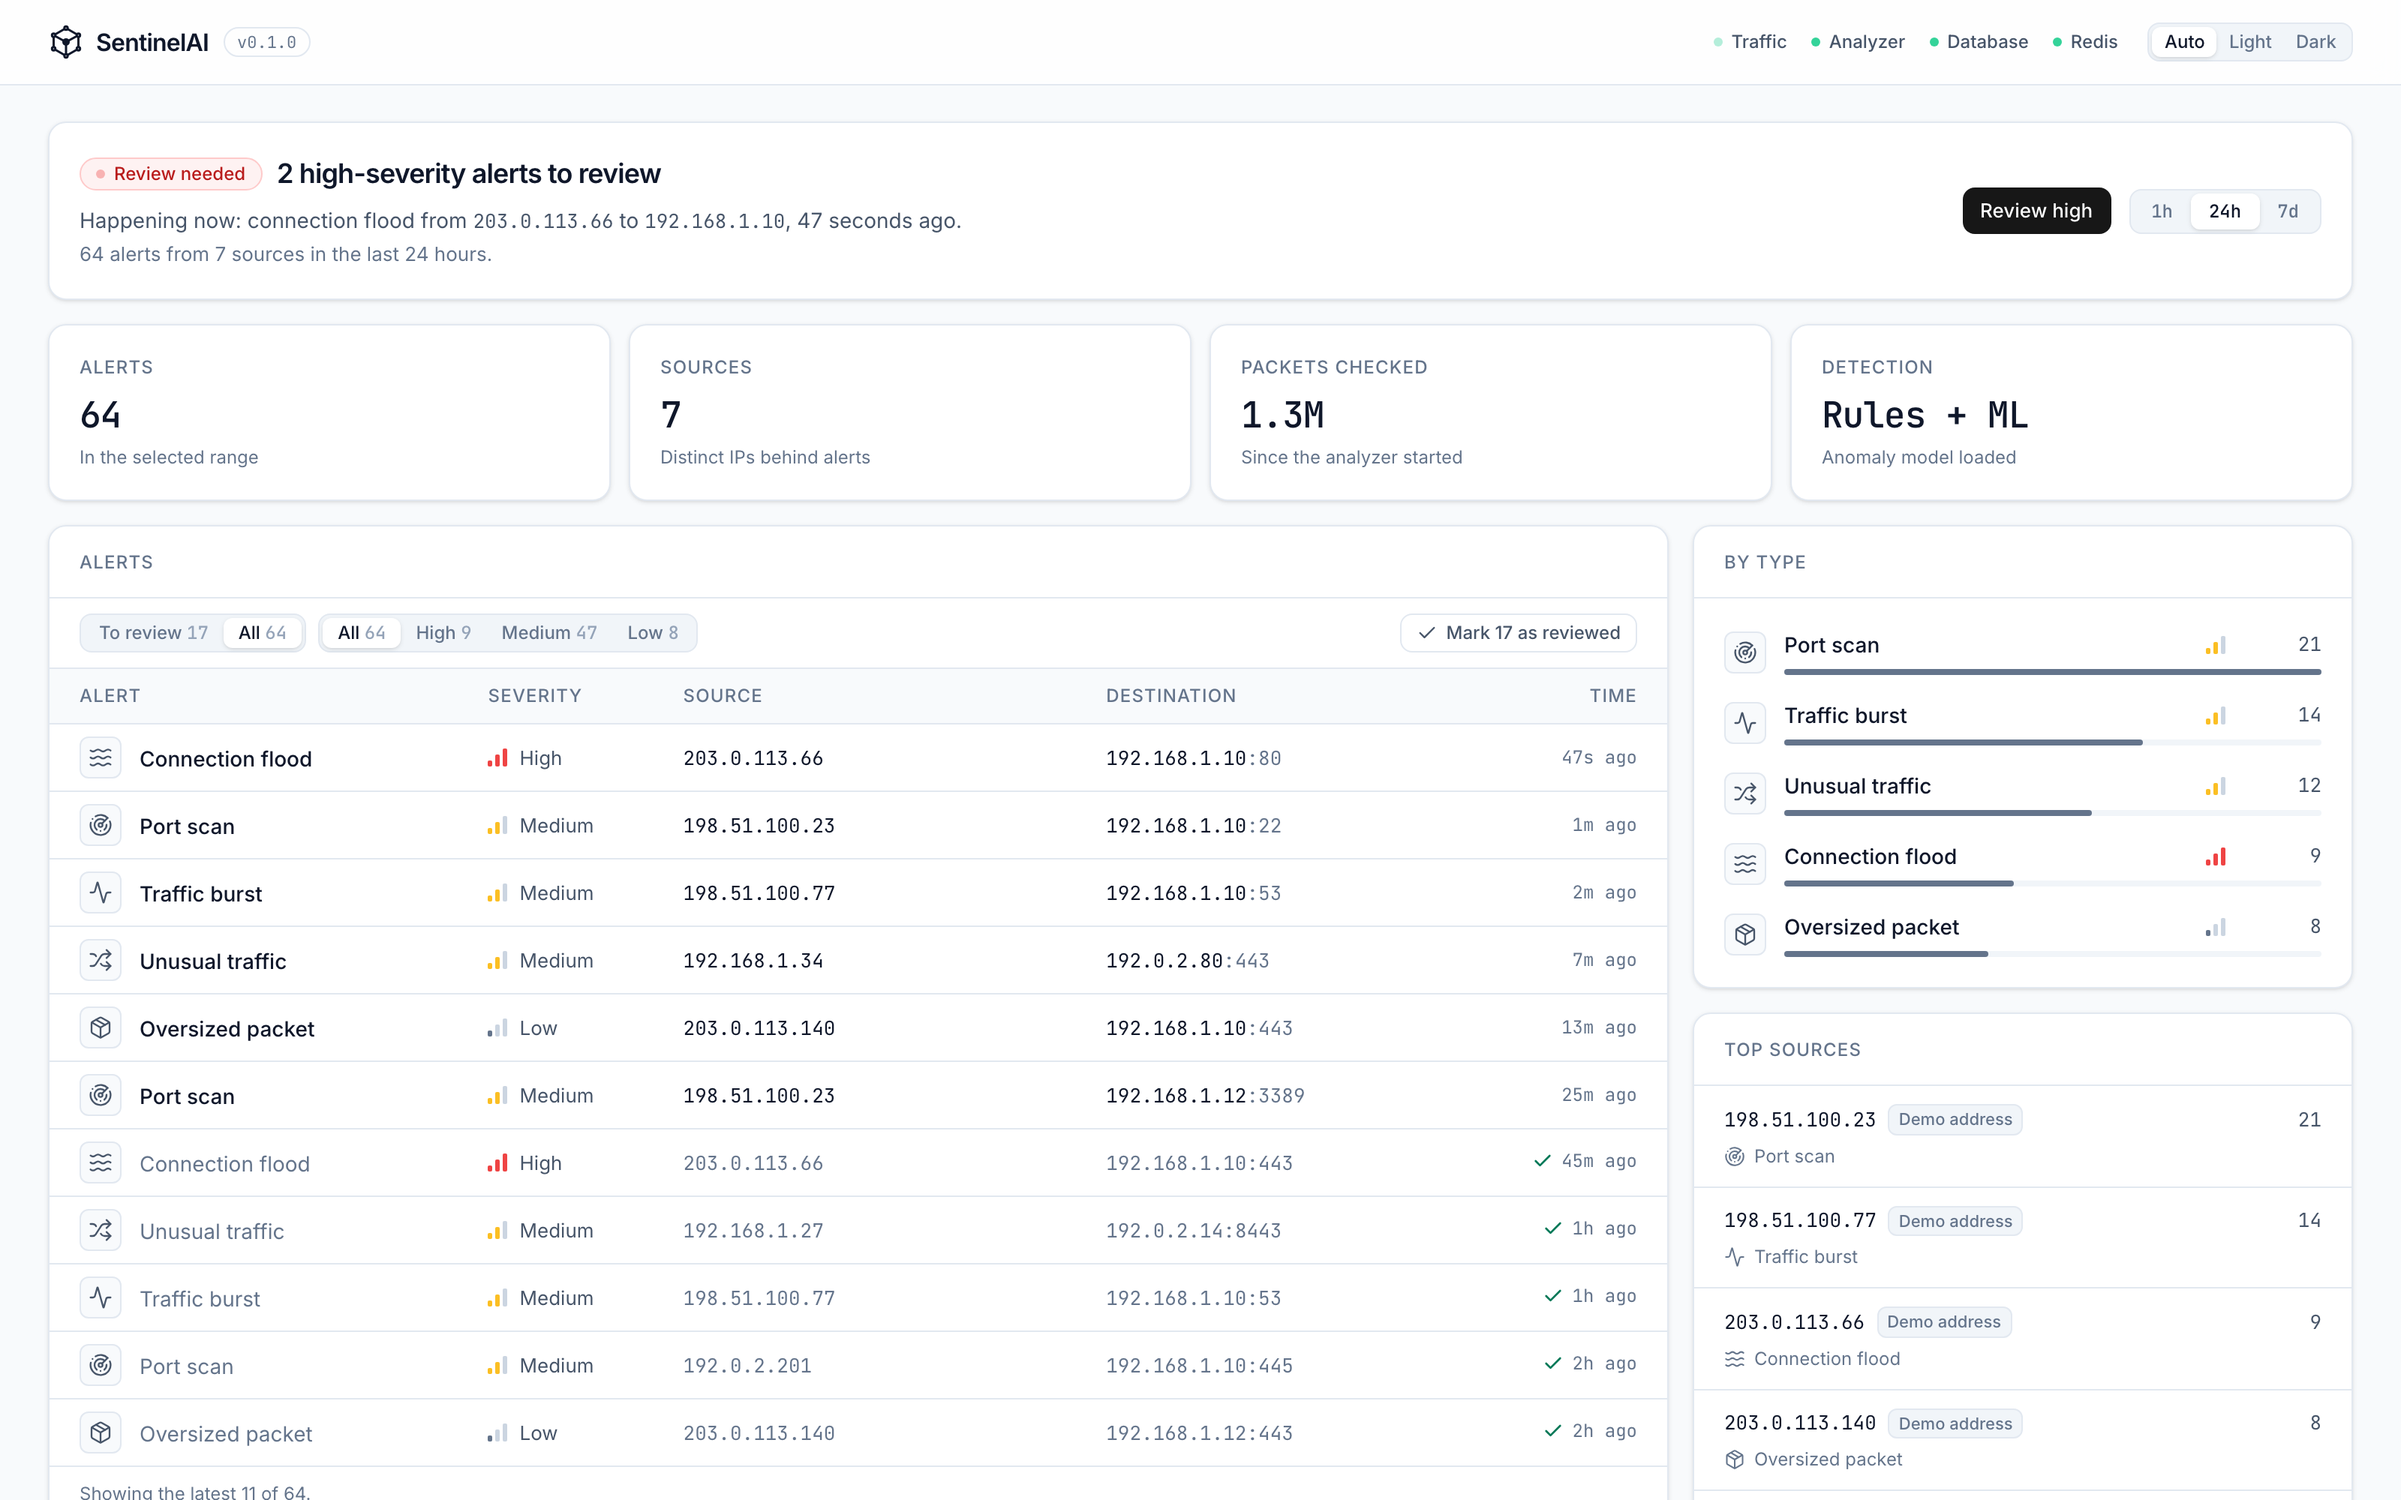
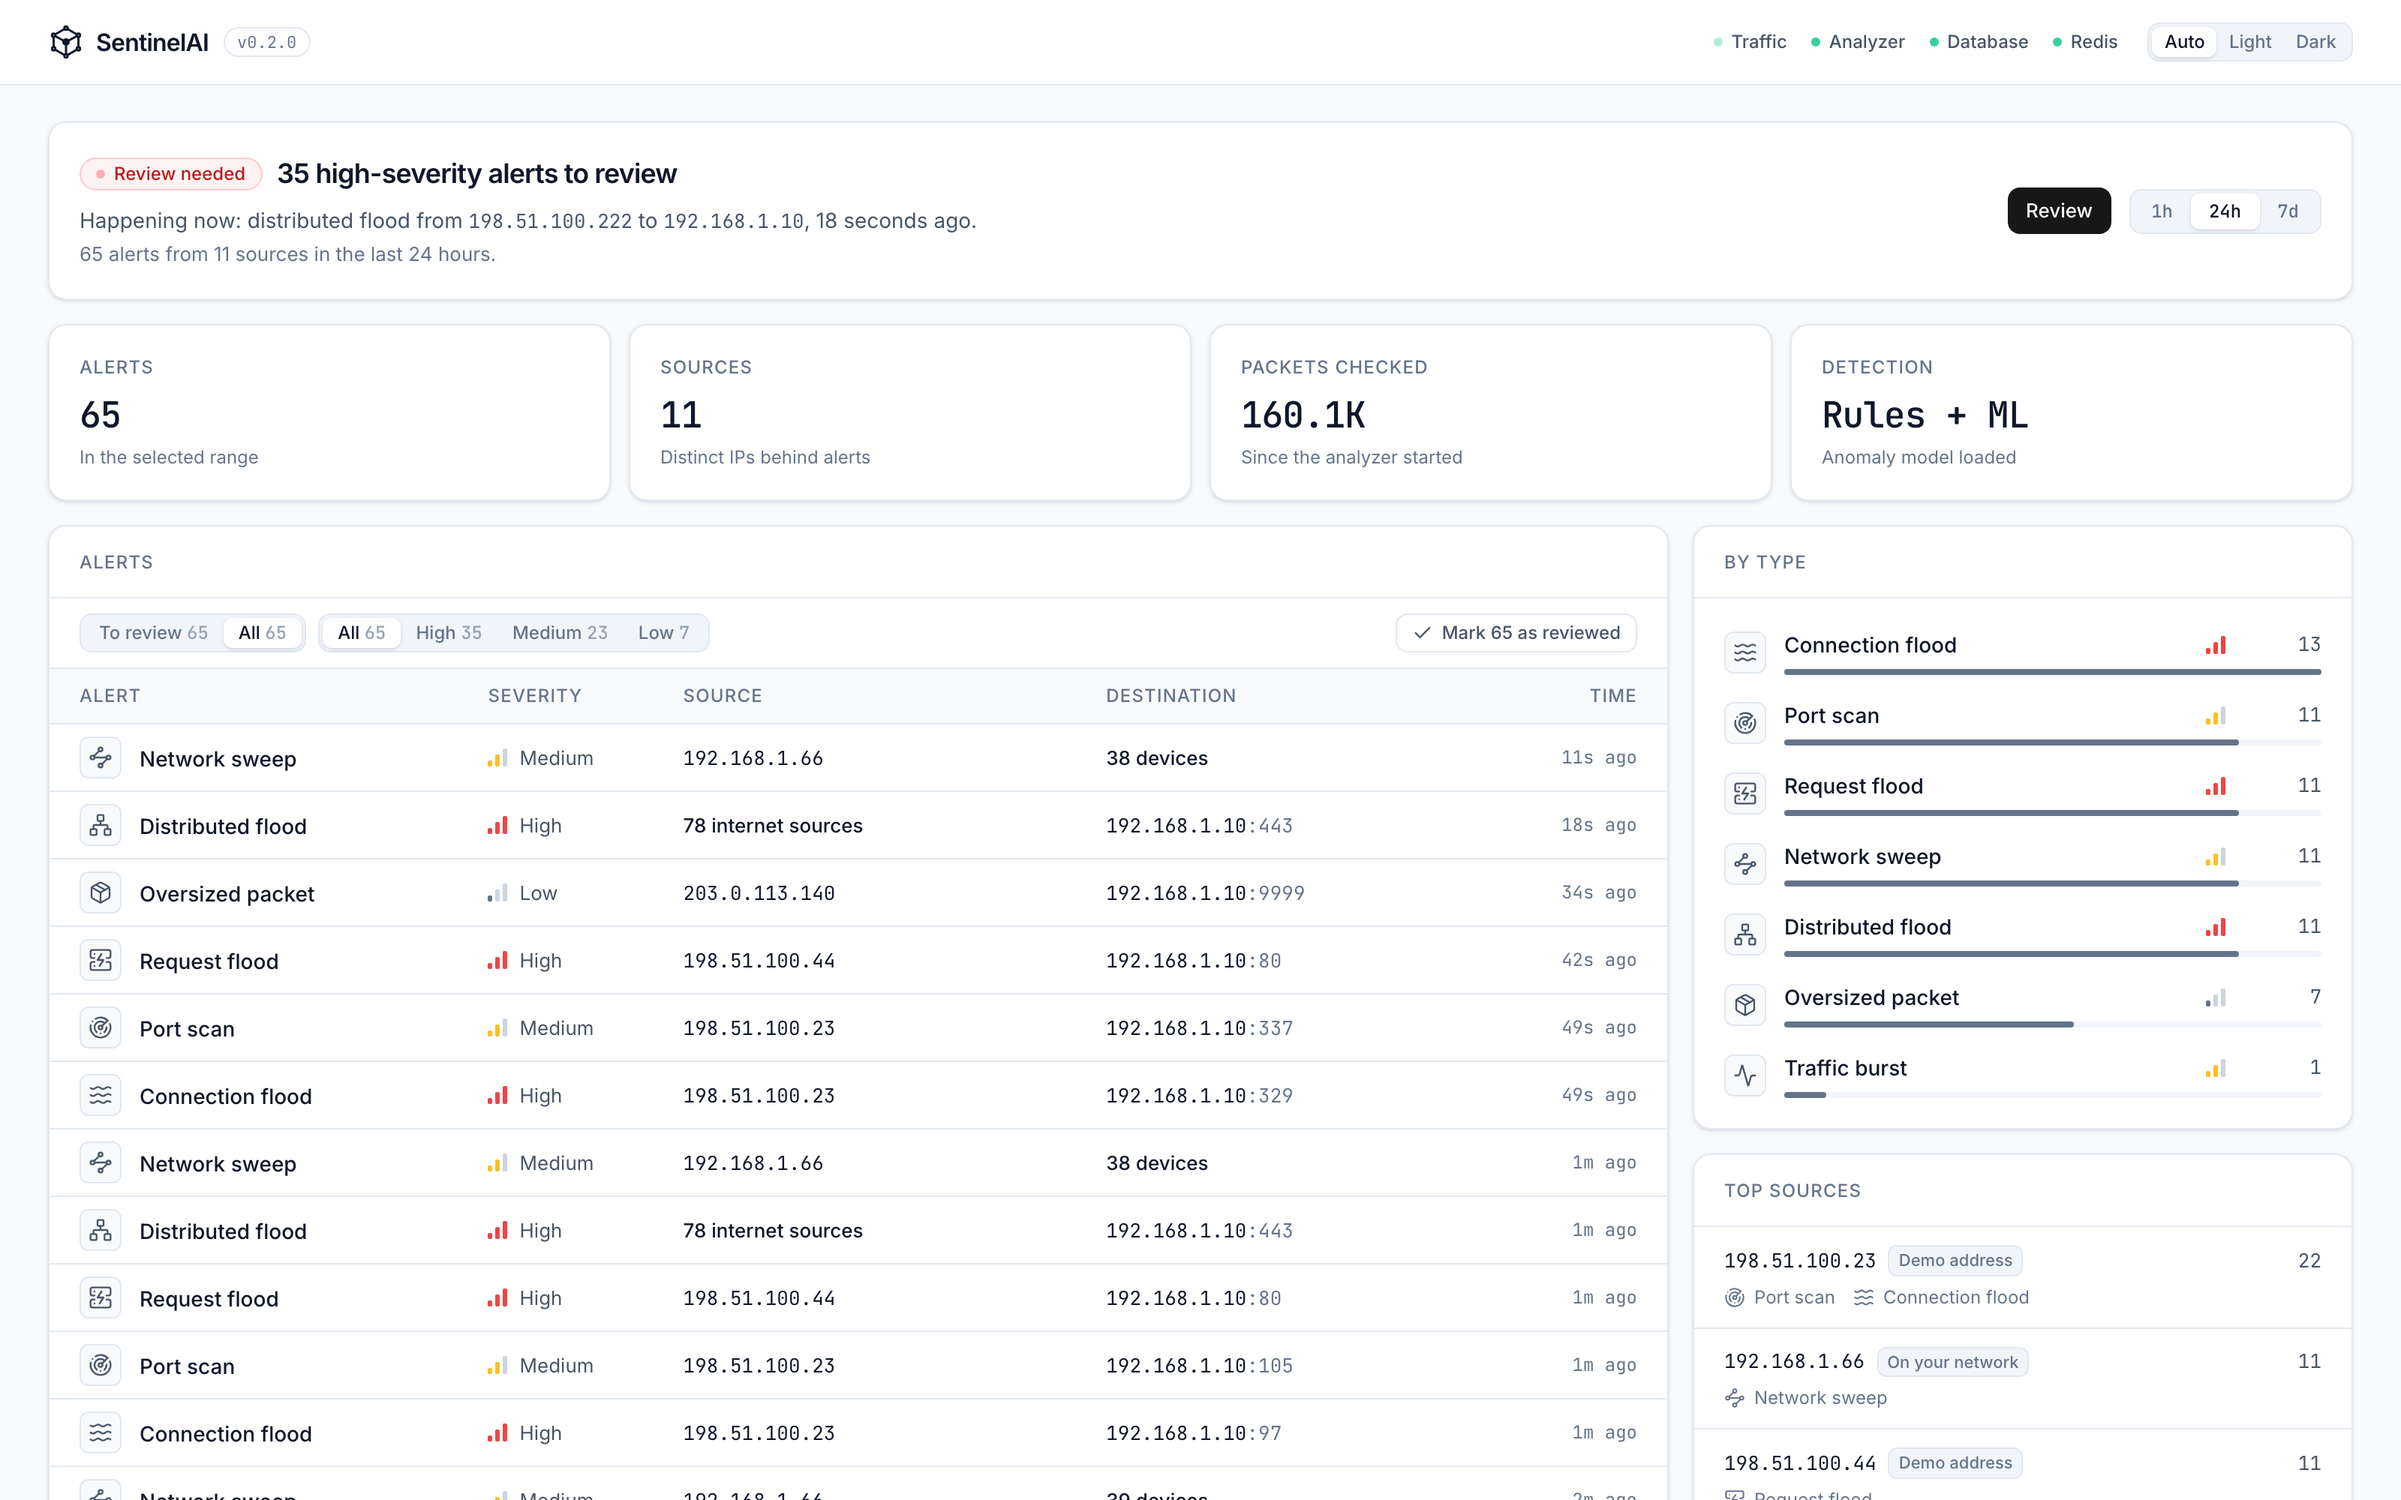
Release 0.2.0

diff --git a/website/data/site.ts b/website/data/site.ts
@@ -12,7 +12,7 @@
 
 export const site = {
   name: "SentinelAI",
-  version: "0.1.0",
+  version: "0.2.0",
   repo: "https://github.com/smngvlkz/sentinel",
   evaluationDoc: "https://github.com/smngvlkz/sentinel/blob/master/docs/evaluation.md",
   roadmapDoc: "https://github.com/smngvlkz/sentinel/blob/master/docs/ROADMAP.md",
@@ -148,7 +148,7 @@ export const features: Feature[] = [
     tag: "Demo",
     icon: "play",
     title: "See it work in two minutes",
-    body: "make demo replays simulated attacks against a full local install, no root needed. The fake attackers use addresses reserved for documentation, so they can never be mistaken for real ones.",
+    body: "make demo replays seven kinds of simulated attack against a full local install, no root needed. The fake internet attackers use addresses reserved for documentation, so they can't be mistaken for real ones.",
   },
 ];
 

diff --git a/dashboard-api/main.py b/dashboard-api/main.py
@@ -28,7 +28,7 @@ load_dotenv()
 
 log = logging.getLogger(__name__)
 
-VERSION = "0.1.0"
+VERSION = "0.2.0"
 
 STREAM_NAME = "packet_stream"
 HEARTBEAT_KEY = "sentinel:analyzer:heartbeat"

diff --git a/README.md b/README.md
@@ -30,11 +30,14 @@ cd sentinel
 make demo
 ```
 
-Open **http://localhost:3001**. A simulator replays a connection flood, a port
-scan, an oversized packet and a traffic burst every minute, and you'll see
-them detected within seconds. The simulated attackers use the IP ranges
-reserved for documentation (`203.0.113.0/24`, `198.51.100.0/24`), so they can
-never be confused with real hosts.
+Open **http://localhost:3001**. A simulator replays seven attacks every
+minute (a connection flood, a port scan, a request flood, a distributed flood,
+a network sweep, an oversized packet and a traffic burst), and you'll see them
+detected within seconds. The simulated attackers on the internet use the IP
+ranges reserved for documentation (`203.0.113.0/24`, `198.51.100.0/24`), so
+they can never be confused with real hosts. The simulated devices on your
+network use `192.168.1.x` addresses, which may overlap with real ones on your
+network, so run the demo on its own rather than alongside real capture.
 
 The bar at the top only asks for attention while there are **unreviewed**
 alerts. Once you've looked at an alert, mark it as reviewed (one at a time

diff --git a/CHANGELOG.md b/CHANGELOG.md
@@ -6,6 +6,8 @@ uses [Semantic Versioning](https://semver.org/).
 
 ## [Unreleased]
 
+## [0.2.0] - 2026-09-29
+
 ### Added
 
 - Two-way connection tracking (who opened each connection, whether it
@@ -63,7 +65,7 @@ uses [Semantic Versioning](https://semver.org/).
 
 > **Correction:** some accuracy figures in this release's notes were
 > affected by a scoring bug. The corrected numbers are under
-> [Unreleased](#unreleased) above.
+> [0.2.0](#020---2026-09-29) above.
 
 First public release.
 
@@ -77,5 +79,6 @@ First public release.
 - Evaluation against CIC-IDS2017, with results in
   [docs/evaluation.md](docs/evaluation.md).
 
-[Unreleased]: https://github.com/smngvlkz/sentinel/compare/v0.1.0...HEAD
+[Unreleased]: https://github.com/smngvlkz/sentinel/compare/v0.2.0...HEAD
+[0.2.0]: https://github.com/smngvlkz/sentinel/compare/v0.1.0...v0.2.0
 [0.1.0]: https://github.com/smngvlkz/sentinel/releases/tag/v0.1.0
